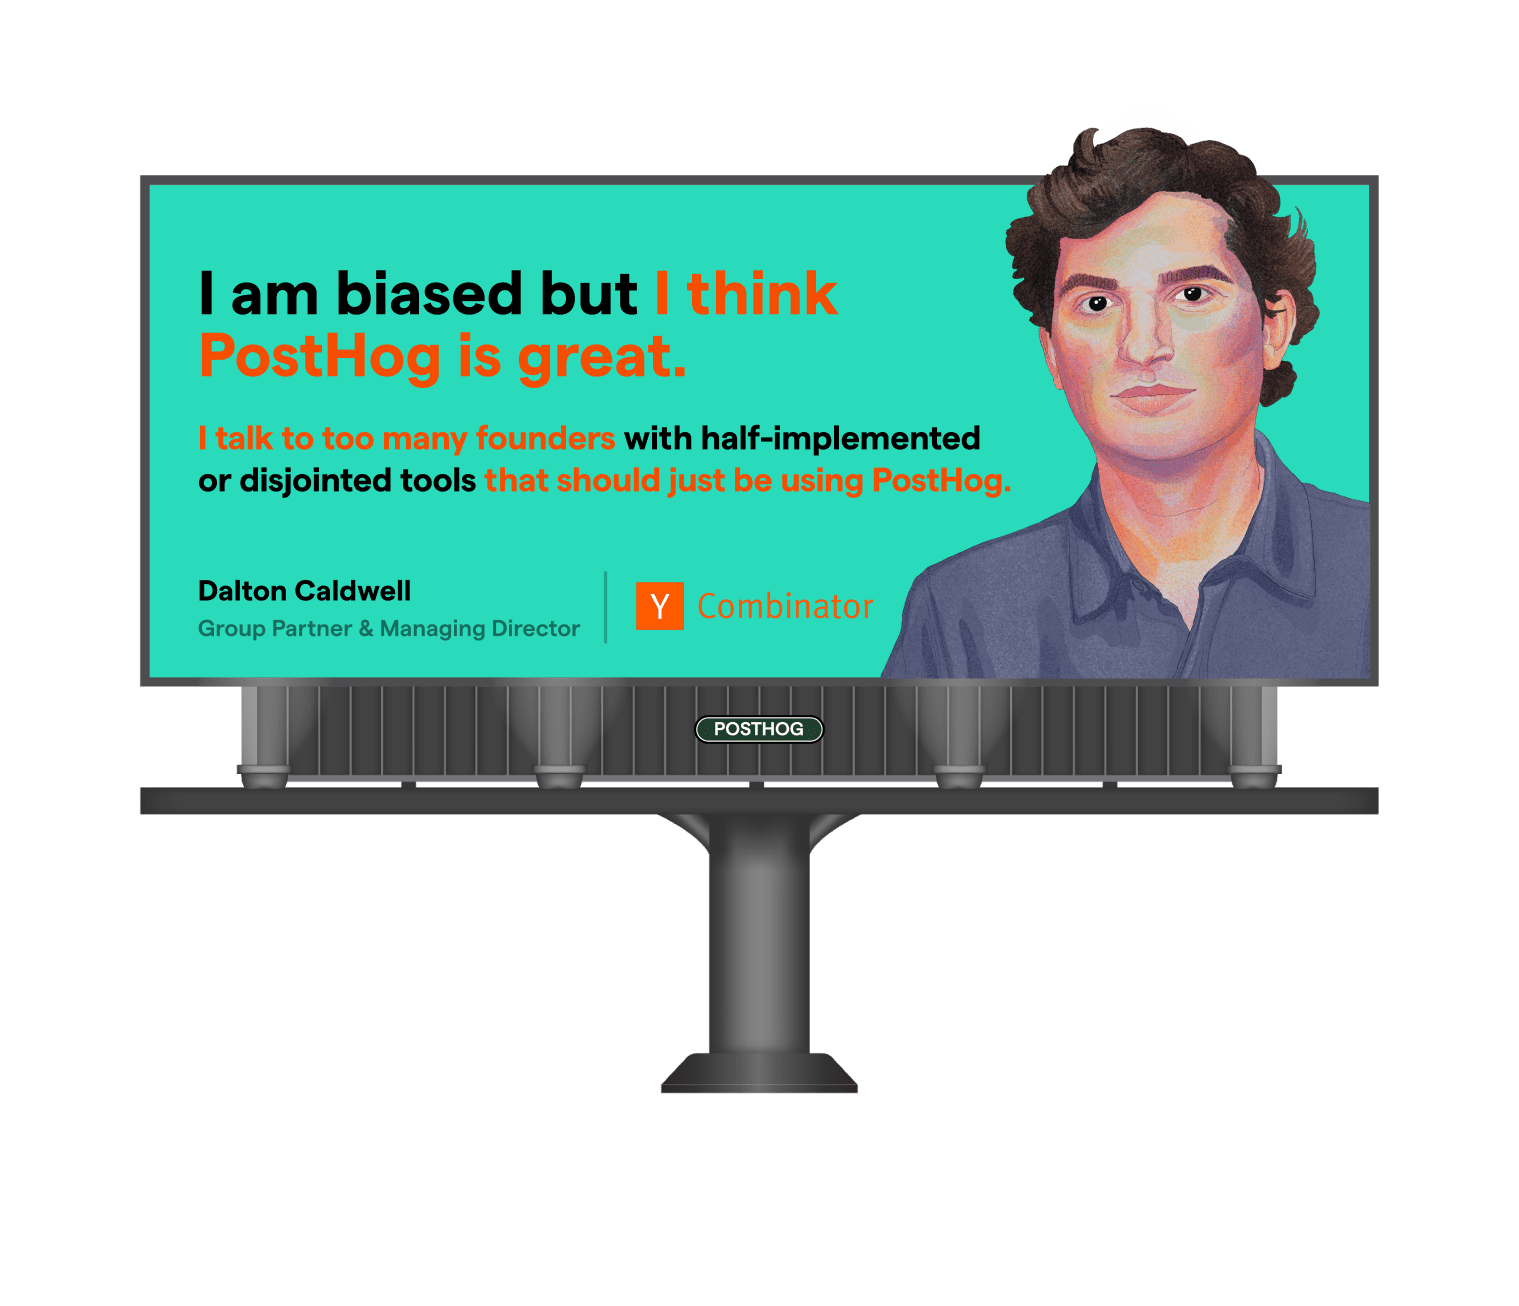
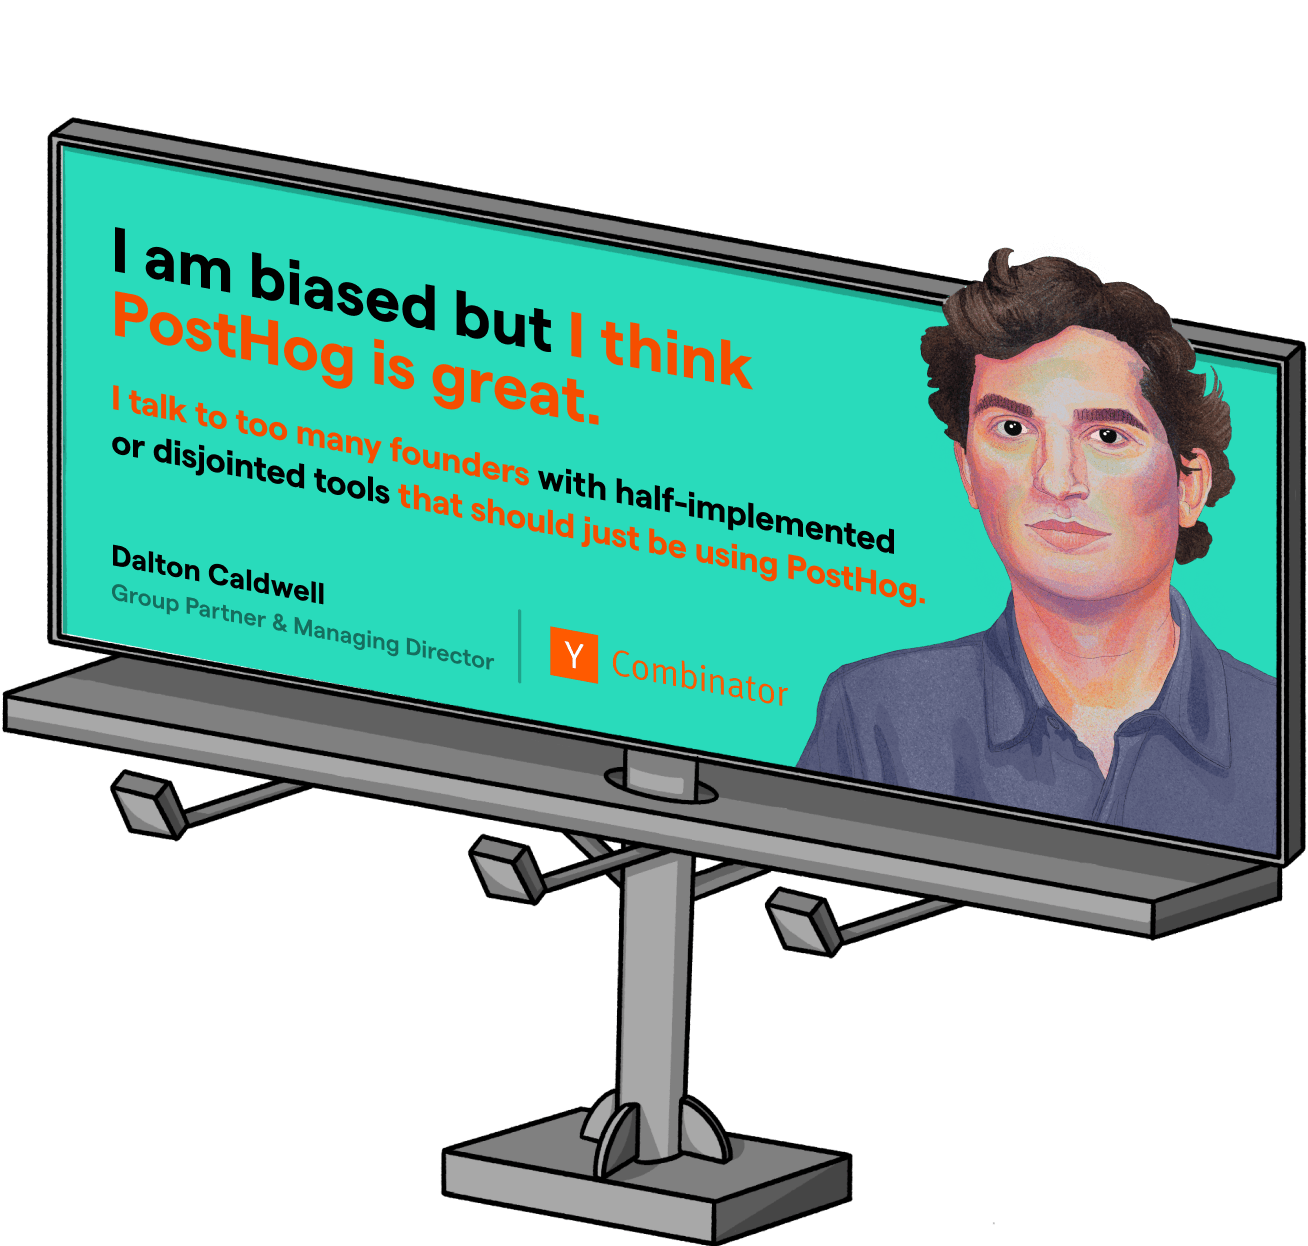
replaced/resized dalton billboard

diff --git a/src/components/Home/Startups.js b/src/components/Home/Startups.js
@@ -19,11 +19,11 @@ export default function Startups() {
     return (
         <section className="overflow-x-hidden pt-12 md:pt-20">
             <div className="max-w-5xl p-8 border border-light dark:border-dark bg-accent dark:bg-accent-dark rounded mb-12 lg:mb-20 xl:mb-24 mx-4 xl:mx-auto">
-                <div className="w-[160%] ml-[-30%] mt-[-20%] mb-[-10%] lg:float-right lg:ml-0 lg:-mt-12 lg:-mr-36 lg:mb-0 lg:w-auto relative text-center">
+                <div className="-mt-28 -mx-12 mb-6 lg:float-right lg:ml-4 lg:-mt-40 lg:-mr-20 xl:-mr-32 lg:mb-0 lg:w-auto relative text-center">
                     <StaticImage
                         src="./images/billboard.png"
                         alt="A billboard with Dalton Caldwell extolling how great PostHog is"
-                        className="max-w-[660px]"
+                        className="max-w-[654px]"
                         quality={100}
                         formats={['png']}
                     />
